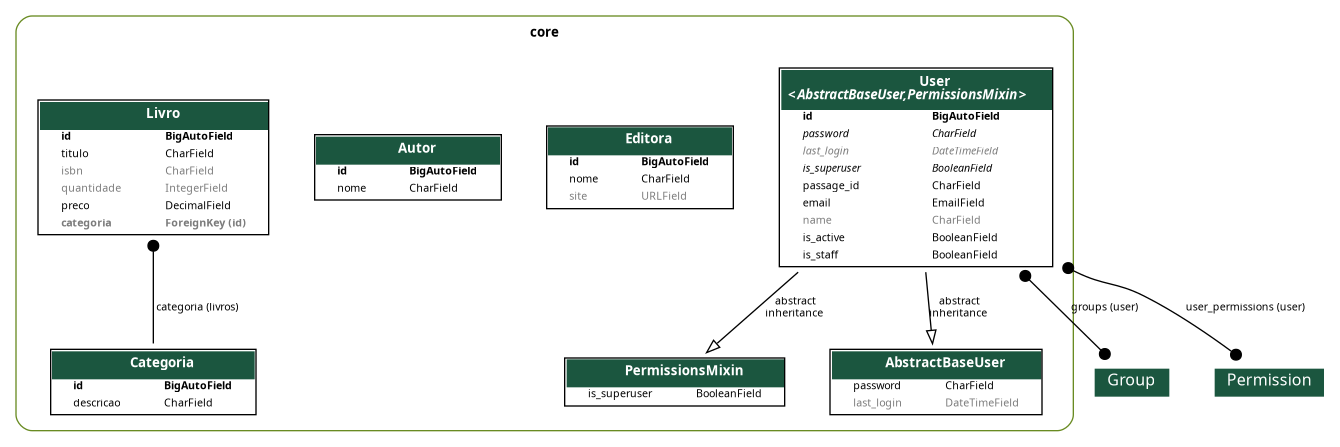
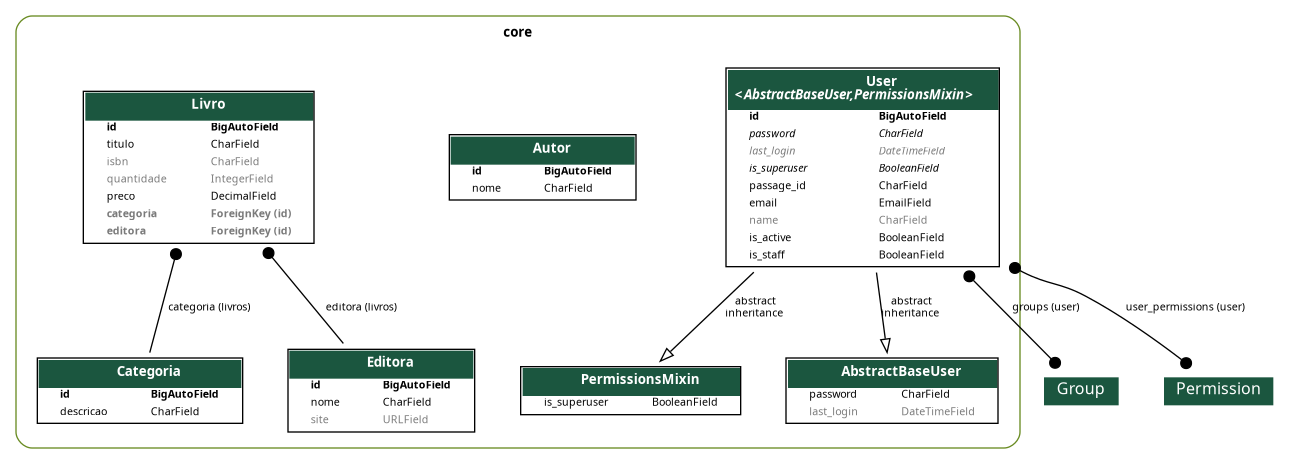
FEAT: Relacionamento editora

Changed region(s): [[0.0, 0.0291, 0.993, 0.9888], [0.2483, 0.6398, 0.3103, 0.6689]]

diff --git a/core/models/livro.py b/core/models/livro.py
@@ -1,6 +1,7 @@
 from django.db import models
 
 from .categoria import Categoria
+from .editora import Editora
 
 
 class Livro(models.Model):
@@ -8,7 +9,8 @@ class Livro(models.Model):
     isbn = models.CharField(max_length=32, null=True, blank=True)
     quantidade = models.IntegerField(default=0, null=True, blank=True)
     preco = models.DecimalField(max_digits=7, decimal_places=2, default=0)
-    categoria = models.ForeignKey(Categoria, on_delete=models.PROTECT, related_name="livros", blank=True, null=True)
+    categoria = models.ForeignKey(Categoria, on_delete=models.PROTECT, related_name='livros', blank=True, null=True)
+    editora = models.ForeignKey(Editora, on_delete=models.PROTECT, related_name='livros', blank=True, null=True)
 
     def __str__(self):
         return f'({self.id}) {self.titulo} ({self.quantidade})'

diff --git a/core/migrations/0010_livro_editora.py b/core/migrations/0010_livro_editora.py
@@ -1,0 +1,19 @@
+# Generated by Django 5.1.7 on 2026-03-20 13:37
+
+import django.db.models.deletion
+from django.db import migrations, models
+
+
+class Migration(migrations.Migration):
+
+    dependencies = [
+        ('core', '0009_livro_categoria'),
+    ]
+
+    operations = [
+        migrations.AddField(
+            model_name='livro',
+            name='editora',
+            field=models.ForeignKey(blank=True, null=True, on_delete=django.db.models.deletion.PROTECT, related_name='livros', to='core.editora'),
+        ),
+    ]
